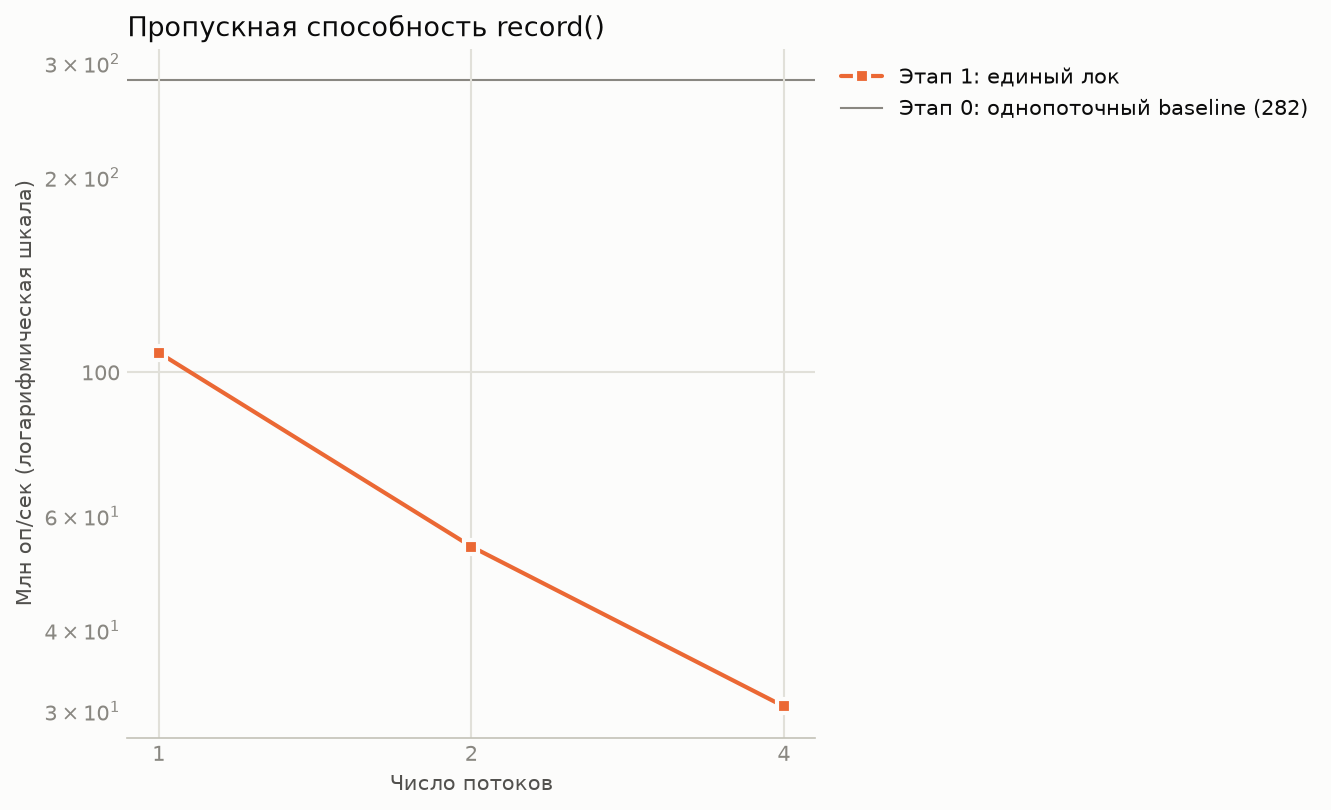
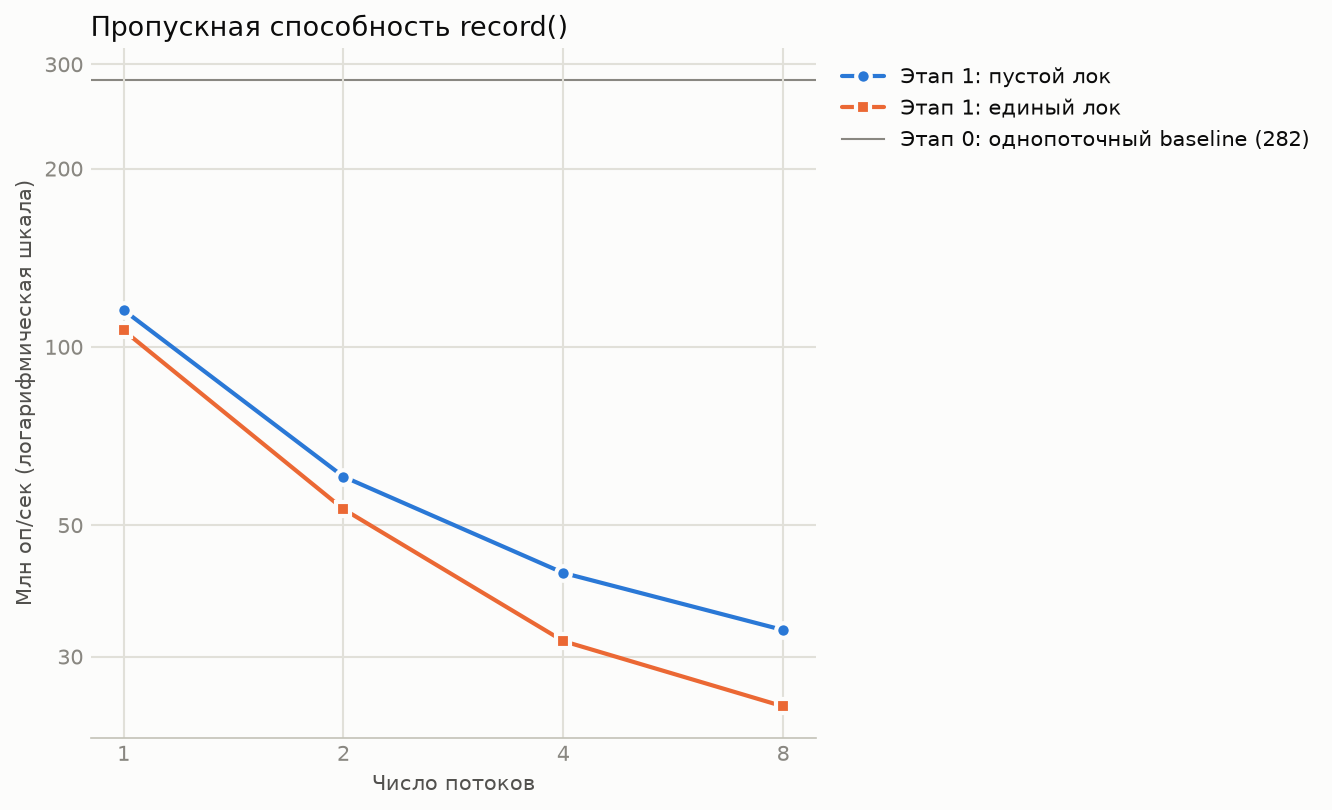
empty lock collector done

diff --git a/lab1/plot.py b/lab1/plot.py
@@ -13,7 +13,7 @@ from collections import defaultdict
 from pathlib import Path
 
 import matplotlib.pyplot as plt
-from matplotlib.ticker import FuncFormatter
+from matplotlib.ticker import FuncFormatter, LogLocator
 
 SURFACE = "#fcfcfb"
 TEXT_PRIMARY = "#0b0b0b"
@@ -75,6 +75,9 @@ def plot(data, out, linear):
     ax.xaxis.set_minor_locator(plt.NullLocator())
     if not linear:
         ax.set_yscale("log")
+        # The data spans less than a decade, so default log ticks leave one major label and sci-notation minors.
+        ax.yaxis.set_major_locator(LogLocator(base=10, subs=(1, 2, 3, 5)))
+        ax.yaxis.set_minor_locator(plt.NullLocator())
     ax.yaxis.set_major_formatter(FuncFormatter(lambda y, _: f"{y:,.0f}".replace(",", " ") if y >= 1 else f"{y:g}"))
 
     ax.set_xlabel("Число потоков", color=TEXT_SECONDARY)

diff --git a/lab1/src/main.cpp b/lab1/src/main.cpp
@@ -1,3 +1,4 @@
+#include "empty_lock_collector.hpp"
 #include "metrics.hpp"
 #include "mutex_collector.hpp"
 #include "single_thread_collector.hpp"
@@ -147,6 +148,7 @@ std::unique_ptr<MetricsCollector> make_collector(Impl impl) {
     case Impl::Mutex:
         return std::make_unique<MutexCollector>();
     case Impl::EmptyLock:
+        return std::make_unique<EmptyLockCollector>();
     case Impl::Striped:
     case Impl::ThreadLocal:
     case Impl::DoubleBuffer:

diff --git a/lab1/src/empty_lock_collector.cpp b/lab1/src/empty_lock_collector.cpp
@@ -1,0 +1,15 @@
+#include "empty_lock_collector.hpp"
+
+#include "metrics.hpp"
+
+#include <cstdint>
+#include <mutex>
+
+void EmptyLockCollector::record(uint64_t) {
+    std::lock_guard lock(mt_);
+}
+
+Snapshot EmptyLockCollector::snapshot() {
+    std::lock_guard lock(mt_);
+    return Snapshot{};
+}

diff --git a/lab1/src/empty_lock_collector.hpp b/lab1/src/empty_lock_collector.hpp
@@ -1,0 +1,15 @@
+#pragma once
+
+#include "metrics.hpp"
+
+#include <cstdint>
+#include <mutex>
+
+class EmptyLockCollector : public MetricsCollector {
+    std::mutex mt_;
+
+  public:
+    void record(uint64_t value) override;
+
+    Snapshot snapshot() override;
+};
